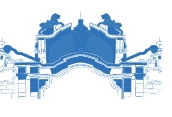
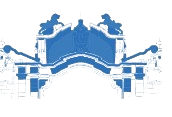
finished

diff --git a/style.css b/style.css
@@ -12,7 +12,8 @@ body {
     font-family: 'Arial', sans-serif;
     /* line-height: 0.2; */
     font-size: 12px;
-
+    color: rgb(65, 168, 242);
+    font-weight: 500;
 }
 
 .container {
@@ -62,9 +63,10 @@ body {
     margin-left: 15px ;
 }
 .get-pic {
-    width: 80px;
-    height: 40px;
+    width: 90px;
+    height: 60px;
     margin-right: 7px;
+    margin-bottom: -8px;
 }
 
     /* the content part */
@@ -74,16 +76,16 @@ body {
     width: 333px;
     margin-top: -10px;
     margin-bottom: -8px;
-    background-image: url(aau-logo.png);
-    background-repeat: no-repeat;
-    background-position: 60% 40%;
-    background-size: 110px 110px;
+    
 }
 
 .personal-data {
-    position: relative;
     display: flex;
-    /* z-index: 1; */
+    background-image: url(aau-logo-gray.png);
+    background-repeat: no-repeat;
+    background-position: 63% 0%;
+    background-size: 100px 100px;
+    
 
          /* display: grid; */
          /* grid-template-columns: repeat(3, 1fr); */
@@ -127,8 +129,8 @@ body {
     width: 70px;
     height: 90px;
     padding-bottom: 2px;
-    filter: grayscale(70%);
-    filter: brightness(70%);
+    filter: grayscale(0%);
+    filter: brightness(100%);
     opacity: 0.5;
 }
 
